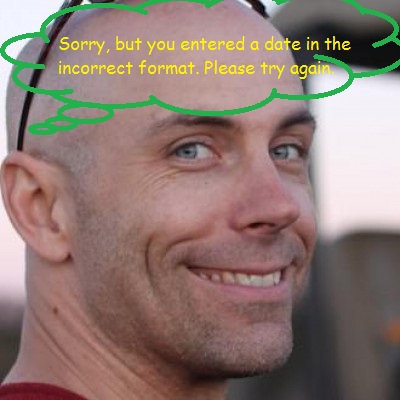
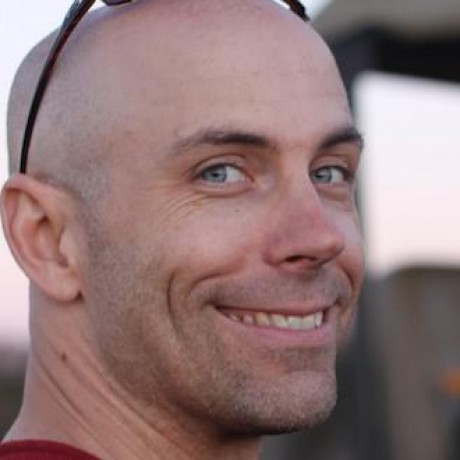
temple says

Changed region(s): [[0.0, 0.0, 1.0, 0.36], [0.84, 0.0, 1.0, 0.12], [0.69, 0.0, 0.72, 0.03]]

diff --git a/functions.js b/functions.js
@@ -86,6 +86,6 @@ function checkFormat() {
         return getAge();
     } else {
         document.getElementById("picture").src = "./Images/lordandsaviour.jpg";
-        return "Sorry, but you entered a date in the incorrect format. Please try again.";
+        return "Temple Says: Sorry, but you entered a date in the incorrect format. Please try again.";
     }
 }
